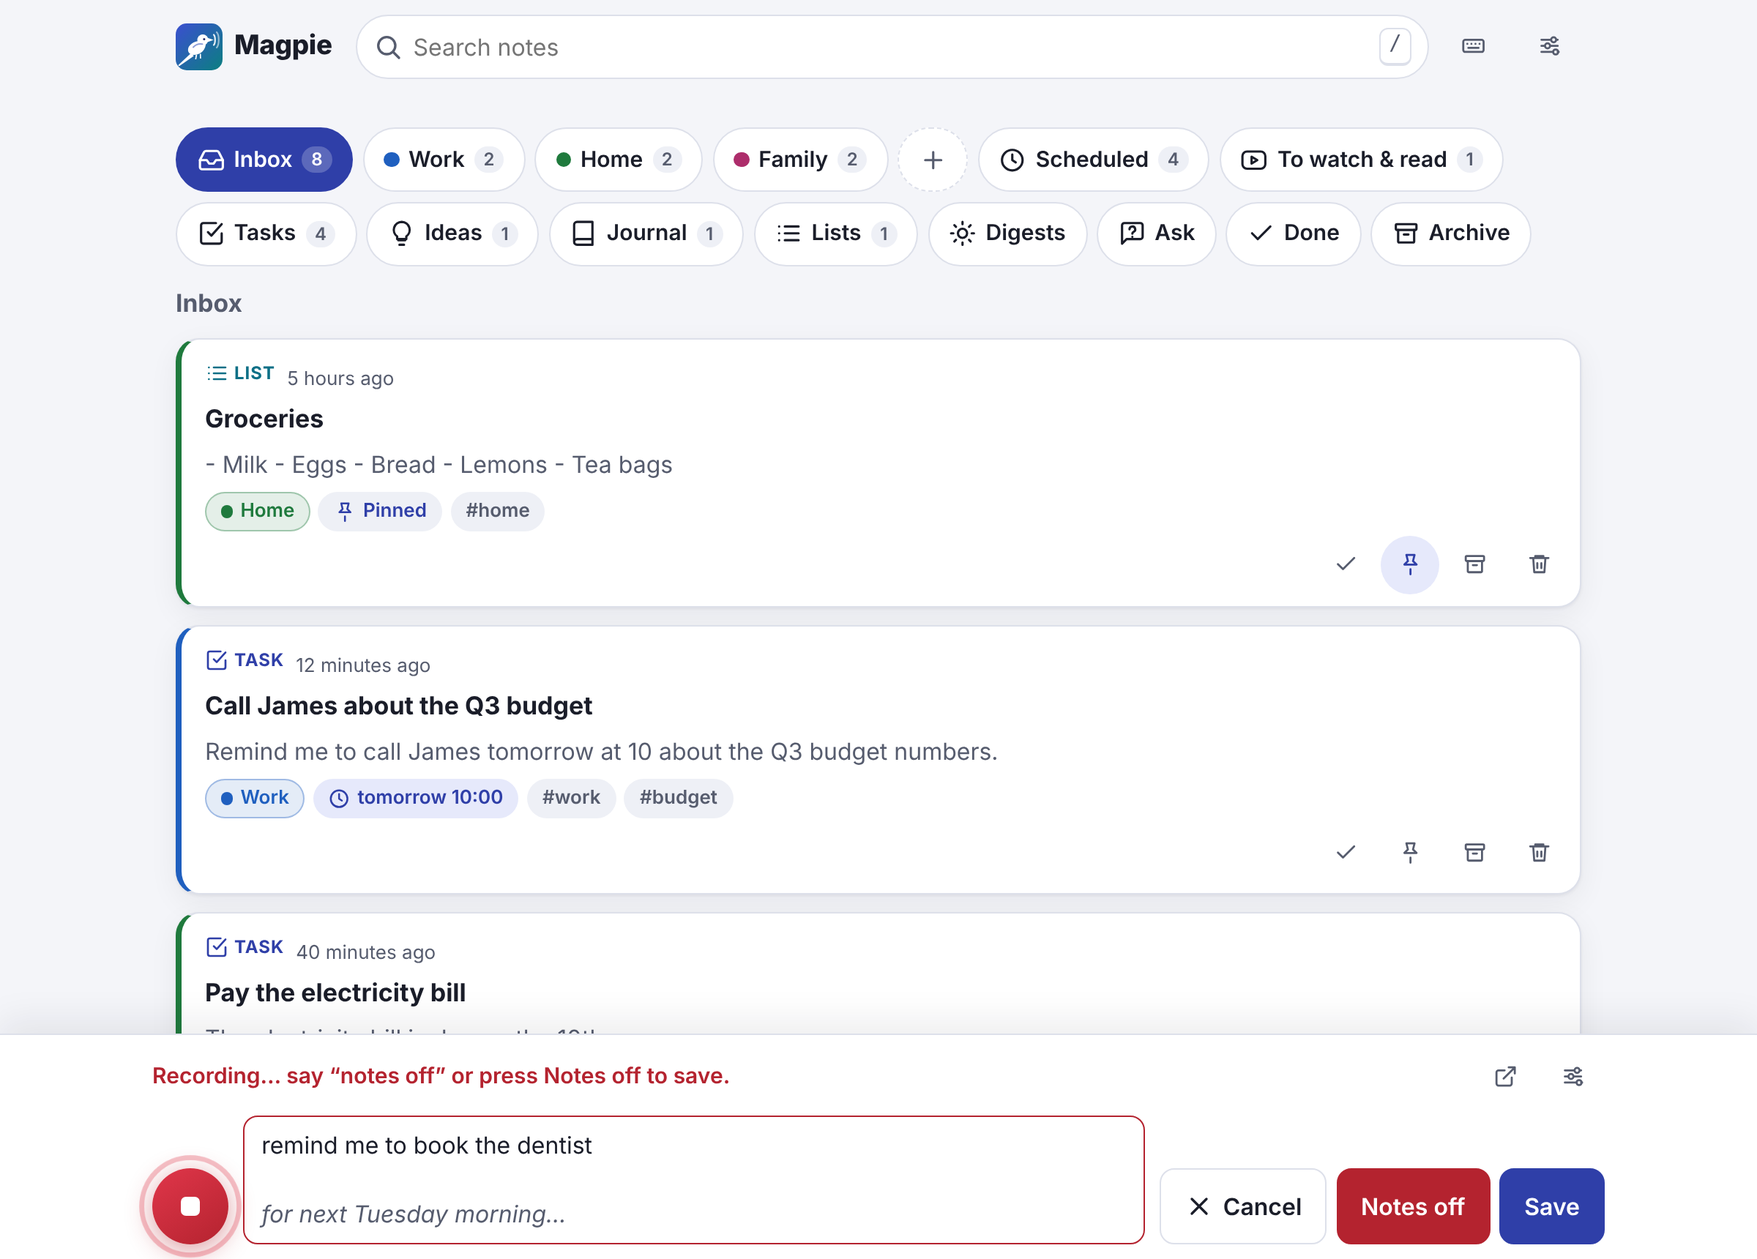
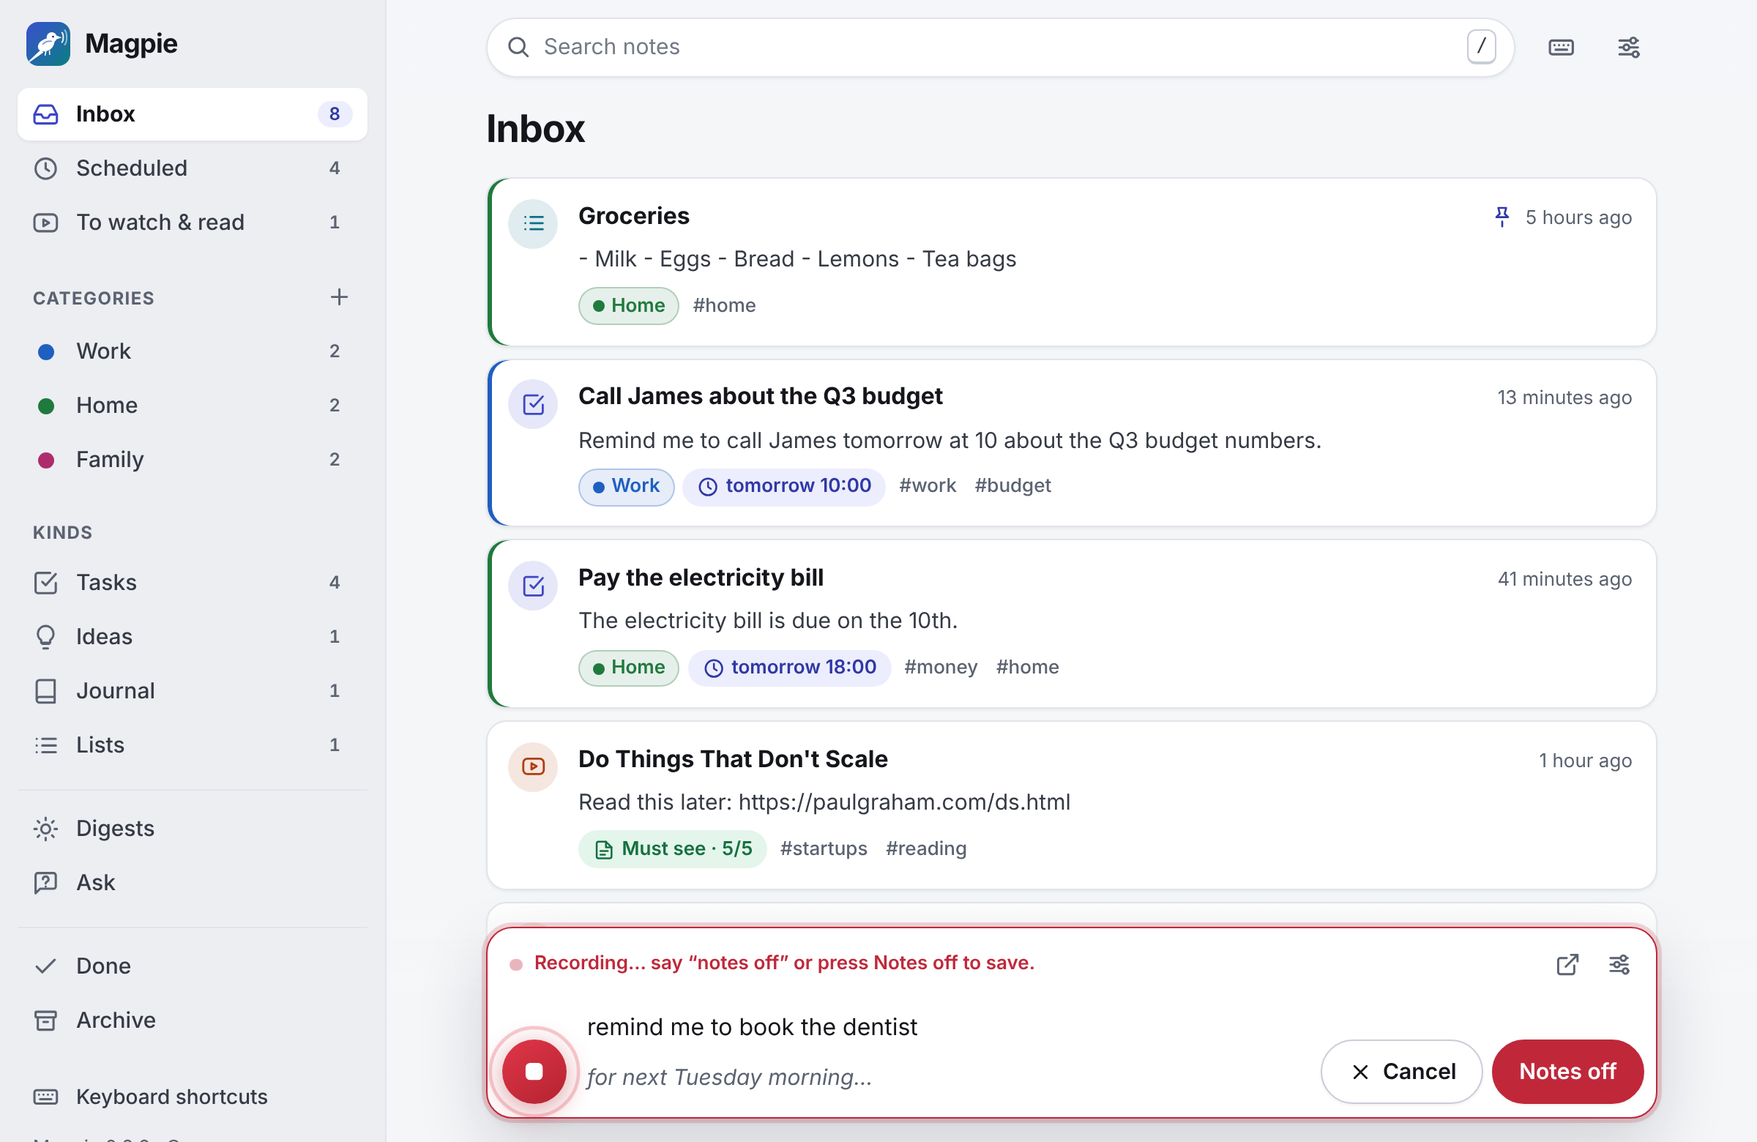
Magpie 0.9.0: a new look for the notes window, the voice bar and pop-ups
- The redesign from the previous commit, finished: on phones the
  composer's Allow microphone button has its own line, the placeholder is
  shorter, and the status dot sits above the mic. While recording, Notes
  off is the one button that saves (Save beside it did the same). High
  contrast keeps the category stripe, and the file picker is styled.
- The self-test also checks that the bar shows the microphone's level.
- New README screenshots; the guide, spec, architecture and configuration
  pages speak of the sidebar rather than tabs, and the guide explains the
  bar's meter, with what to do when it doesn't move.

Claude-Session: https://claude.ai/code/session_01AZmxZzrQAWN22yze1aNy5f

diff --git a/src/magpie/web/static/js/capture.js b/src/magpie/web/static/js/capture.js
@@ -29,10 +29,14 @@ let placeholder = null;
 let undoText = "";
 let undoTimer = null;
 let updateHeight = () => {};
-let noteContext = () => ({}); // the tab a note is written in (set by app.js)
-let startedIn = null; // that tab, for a recording, when it started
+let noteContext = () => ({}); // the view a note is written in (set by app.js)
+let startedIn = null; // that view, for a recording, when it started
 
 const PLACEHOLDER = "Type a note, or press the mic…";
+const SHORT_PLACEHOLDER = "Type a note…"; // a phone or the pop-out: the mic is right beside it
+const phone = window.matchMedia?.("(max-width: 40rem)");
+// The bar's own window decides (it may be the pop-out).
+const narrowBar = () => Boolean(el.root.ownerDocument.defaultView?.matchMedia?.("(max-width: 40rem)").matches);
 const wakePhrase = () => state.prefs?.wake_phrase || "notes on";
 const stopPhrase = () => state.prefs?.stop_phrase || "notes off";
 const pipSupported = "documentPictureInPicture" in window;
@@ -200,9 +204,10 @@ function render() {
   el.mic.title = `${micLabel} (Alt+N)`;
 
   // While recording, the words appear here: no placeholder in their way.
-  el.area.placeholder = rec || transcribing ? "" : PLACEHOLDER;
+  el.area.placeholder = rec || transcribing ? "" : narrowBar() ? SHORT_PLACEHOLDER : PLACEHOLDER;
   const hasText = Boolean(el.area.value.trim());
   el.off.hidden = !rec;
+  el.save.hidden = rec; // Notes off saves, as Save would
   el.cancel.hidden = !(rec || hasText); // always there while recording
   el.save.disabled = transcribing;
 
@@ -250,7 +255,7 @@ async function submit(text, source) {
   setArea("");
   showInterim("");
   spoken = false;
-  // A voice note keeps the tab it was started in; a typed one, the tab it's saved from.
+  // A voice note keeps the view it was started in; a typed one, the view it's saved from.
   const context = source === "web-voice" && startedIn ? startedIn : noteContext();
   startedIn = null;
   setNotice("Saving…", 30000);
@@ -833,6 +838,7 @@ function wireBar() {
 export function setupCapture() {
   if (el) return;
   el = find();
+  phone?.addEventListener?.("change", render);
   setupVoice();
   wireBar();
   wirePopover();

diff --git a/src/magpie/web/static/css/app.css b/src/magpie/web/static/css/app.css
@@ -136,9 +136,10 @@
   --text-2: var(--text);
   --border: currentcolor;
   --border-strong: currentcolor;
-  --shadow-1: none;
-  --shadow-2: none;
-  --shadow-3: none;
+  /* No shadows, but still values: some shadows are combined with a stripe or a ring. */
+  --shadow-1: 0 0 #0000;
+  --shadow-2: 0 0 #0000;
+  --shadow-3: 0 0 #0000;
 }
 :root[data-contrast="high"] .card,
 :root[data-contrast="high"] .btn,
@@ -380,7 +381,20 @@ textarea:focus-visible {
   border-color: var(--focus);
   box-shadow: 0 0 0 3px color-mix(in srgb, var(--focus) 30%, transparent);
 }
-input[type="file"] { font: inherit; }
+input[type="file"] { font: inherit; color: var(--muted); }
+input[type="file"]::file-selector-button {
+  margin-right: 0.75rem;
+  min-height: 2.25rem;
+  padding: 0.35rem 0.85rem;
+  border: 1px solid var(--border-strong);
+  border-radius: var(--radius-xs);
+  background: var(--surface);
+  color: var(--text);
+  font: inherit;
+  font-weight: 600;
+  cursor: pointer;
+}
+input[type="file"]::file-selector-button:hover { background: var(--surface-2); }
 textarea { resize: vertical; line-height: 1.5; }
 label { font-weight: 600; }
 fieldset { border: 0; margin: 0; padding: 0; }
@@ -1551,7 +1565,7 @@ dialog .toasts { position: absolute; }
   .voicebar-top,
   .voicebar-main,
   .voicebar-actions { display: contents; }
-  .voice-dot { grid-area: dot; align-self: center; margin-left: 0.35rem; }
+  .voice-dot { grid-area: dot; align-self: center; justify-self: center; } /* above the mic */
   .voice-status { grid-area: status; align-self: center; }
   #voice-allow,
   #voice-undo { grid-area: extra; justify-self: start; margin: 0.15rem 0 0.4rem 0.35rem; }

diff --git a/src/magpie/web/static/js/actions.js b/src/magpie/web/static/js/actions.js
@@ -24,7 +24,7 @@ export function patchNote(note, changes, message, undoChanges) {
   return guarded(async () => {
     const updated = await api(`/api/notes/${note.id}`, { method: "PATCH", body: changes });
     emit("note-updated", updated);
-    if ("category_id" in changes) emit("categories-changed"); // the tabs' counts
+    if ("category_id" in changes) emit("categories-changed"); // the sidebar's counts
     if (message) {
       toast(message, undoChanges ? { action: "Undo", onAction: () => patchNote(updated, undoChanges) } : {});
     }
@@ -54,7 +54,7 @@ export const noteActions = {
       { status: note.status },
     );
   },
-  // Dropped on a category's tab (or chosen in the note window); Undo puts it back.
+  // Dropped on a category in the sidebar (or chosen in the note window); Undo puts it back.
   moveTo(note, category) {
     const id = category?.id || 0;
     if ((note.category_id || 0) === id) {

diff --git a/src/magpie/web/static/js/app.js b/src/magpie/web/static/js/app.js
@@ -387,7 +387,7 @@ function viewInfo(view) {
 
 const NOTE_TYPE = "application/x-magpie-note";
 
-// A tab you can drop a dragged note on: a category, Done or Archive.
+// A view in the sidebar you can drop a dragged note on: a category, Done or Archive.
 function acceptNotes(target, drop) {
   target.classList.add("drop-target");
   target.addEventListener("dragover", (event) => {
@@ -427,7 +427,7 @@ function refreshCategories() {
   return categoriesRequest;
 }
 
-// Where a new note was written, so it remembers the tab (and stays in its category).
+// Where a new note was written, so it remembers the view (and stays in its category).
 function noteContext() {
   if (state.q) return { captured_in: "Search" };
   if (currentView.startsWith("category/")) {

diff --git a/src/magpie/web/static/js/settings.js b/src/magpie/web/static/js/settings.js
@@ -109,7 +109,7 @@ function aiSection() {
 
 function categoriesSection() {
   return section("categories", "Categories",
-    h("p", { class: "muted" }, "Your own categories, in your colours. The AI files notes into them, notes you write in a category's tab stay there, and you can drag notes onto a tab."),
+    h("p", { class: "muted" }, "Your own categories, in your colours. The AI files notes into them, notes you write while a category is open stay in it, and you can drag notes onto a category in the sidebar."),
     categoriesEditor(),
   );
 }

diff --git a/src/magpie/web/static/js/cards.js b/src/magpie/web/static/js/cards.js
@@ -142,7 +142,7 @@ export function noteCard(note, actions) {
       ),
     ),
   );
-  // Drag a card onto a category tab to move it there (the note dialog has the same choice).
+  // Drag a card onto a category in the sidebar to move it there (the note dialog has the same choice).
   card.addEventListener("dragstart", (event) => {
     event.dataTransfer.setData("application/x-magpie-note", String(note.id));
     event.dataTransfer.effectAllowed = "move";

diff --git a/src/magpie/desktop/selftest.py b/src/magpie/desktop/selftest.py
@@ -37,6 +37,7 @@ PAGES = [
     "/static/desktop/reminders.html",
     "/static/desktop/reminders.js",
     "/static/desktop/desktop.css",
+    "/static/icons/sprite.svg",  # the pop-ups' icons
 ]
 APP_MODULES = [
     "vosk",
@@ -304,13 +305,16 @@ def check_window(server: Any) -> str:
             if not ready.wait(60):
                 outcome["error"] = "the bar page never said it was ready"
                 return
+            # Recording, with the words so far and how loud the microphone is.
             window.run_js(
                 "window.magpieBar.recording({});"
+                "window.magpieBar.level({level: 0.5});"
                 "window.magpieBar.words({base: '', final: 'buy milk', partial: 'tomorrow'});"
                 "fetch('/api/desktop/ui', {method: 'POST', headers: {'Content-Type': "
                 "'application/json', 'X-Magpie': '1'}, body: JSON.stringify({window: 'bar', "
                 "action: 'report', text: document.getElementById('bar').dataset.state + '|' + "
-                "document.getElementById('text').value})});"
+                "document.getElementById('text').value + '|' + "
+                "document.getElementById('bar').style.getPropertyValue('--level')})});"
             )
             if not reported.wait(30):
                 outcome["error"] = "the bar didn't answer the app"
@@ -337,13 +341,13 @@ def check_window(server: Any) -> str:
         server.core.desktop = None
     if "error" in outcome:
         raise RuntimeError(outcome["error"])
-    if outcome.get("shown") != "recording|buy milk":
+    if outcome.get("shown") != "recording|buy milk|0.5":
         raise RuntimeError(f"the bar showed {outcome.get('shown')!r}")
     if outcome.get("dictated") != "Buy milk":
         raise RuntimeError(f"the bar saved {outcome.get('dictated')!r} from a dictation app")
     return (
-        "the bar opened, reached the app, showed the words it was sent, and saved what a "
-        "dictation app typed into it"
+        "the bar opened, reached the app, showed the words and the microphone's level it was "
+        "sent, and saved what a dictation app typed into it"
     )
 
 

diff --git a/src/magpie/__init__.py b/src/magpie/__init__.py
@@ -1,3 +1,3 @@
 """Magpie: voice-first notes, filed by the AI you choose."""
 
-__version__ = "0.8.2"
+__version__ = "0.9.0"

diff --git a/docs/guide.md b/docs/guide.md
@@ -20,8 +20,9 @@ this page has the rest.
   the top of the screen on a Mac. The icon turns grey when Magpie isn't listening, and gets
   a red dot while it takes a note.
 - **Say “notes on”** at the start of a sentence, in any program, and a small bar appears at
-  the bottom of the screen with your words as you speak. It doesn't take the keyboard from
-  what you're doing. Say **“notes off”** to save the note (or stop talking for a few
+  the bottom of the screen with your words as you speak, a red dot with how long you've been
+  talking, and a meter that moves with your voice (so you can see Magpie hears you). It
+  doesn't take the keyboard from what you're doing. Say **“notes off”** to save the note (or stop talking for a few
   seconds, or press **Save**), or **“cancel note”** to throw it away; **Undo** brings it
   back. “Notes on” in the middle of a sentence (“I took notes on the meeting”) doesn't count.
 - **When you finish**, the bar says *Writing it down…* for a moment while Magpie writes the
@@ -35,6 +36,11 @@ this page has the rest.
   updates* and *Quit Magpie*.
 - **Reminders pop up** in the bottom-right corner of the screen with *Done*, *Snooze* and
   *Open*, whether Magpie's window is open or not.
+- **Your notes window** lists its views on the left: *Inbox*, *Scheduled*, *To watch & read*,
+  your categories (drag a note onto one to move it there), the kinds of notes you have,
+  *Digests*, *Ask*, *Done* and *Archive*. In a narrow window the **☰** button shows them.
+  Point at a note (or move to it with the keyboard) for its buttons: done, pin, archive and
+  delete.
 - **Closing the notes window** keeps Magpie running and listening. *Quit Magpie* stops it
   until you open it again (from the Start menu or the Desktop on Windows, from Applications
   on a Mac).
@@ -216,6 +222,7 @@ called *magpie*).
 | No Magpie icon by the clock (Windows) | Click the **^** arrow next to the clock; drag the icon onto the taskbar to keep it there. Not there either? Open Magpie from the Start menu. |
 | No Magpie icon in the menu bar (Mac) | A full menu bar hides icons behind the camera notch: quit a menu bar app or two. Not there either? Open Magpie from Applications. |
 | Magpie doesn't hear “notes on” | Point at Magpie's icon (or open its menu): it says what's wrong. *Hears only silence*: on Windows, Settings → Privacy & security → Microphone → *Let desktop apps access your microphone*; on a Mac, System Settings → Privacy & Security → Microphone → Magpie. Check the microphone isn't muted. Say “notes on” at the start of a sentence, or use *Start a voice note* in its menu. |
+| The meter in the bar doesn't move while you talk | Magpie hears nothing from that microphone. Choose the one you use as the input: on Windows, Settings → System → Sound → *Input*; on a Mac, System Settings → Sound → *Input*. Check it isn't muted, then try again. |
 | A note starts when you didn't say “notes on” | Magpie checks with a second recogniser before it starts a note, so this should be rare. If it still happens, choose a wake phrase that sounds like nothing else you say, such as “hello magpie” (Settings → Voice). |
 | Saved notes have mistakes in them | Check Settings → Voice: *Ready* means Whisper writes notes down. While it's *Downloading*, notes keep the quick words or the faster model's. Try *Most accurate* if *Automatic* chose the faster one, and speak towards the microphone. |
 | The download of the speech model fails | Settings → Voice says why. Magpie tries again every 15 minutes. It comes from Hugging Face (huggingface.co), which some networks block. |

diff --git a/docs/SPEC.md b/docs/SPEC.md
@@ -31,8 +31,9 @@ up and summarised without filing anything by hand.
 1. **Capture.** On Windows and Mac, the Magpie app listens for "notes on" all the time,
    offline and in any program, without the user turning anything on: saying it
    (at the start of what they say) brings up a small floating bar at the bottom
-   of the screen with the words as they are spoken, without taking the keyboard
-   from what the user is doing. "notes off", Save or a few seconds of silence
+   of the screen with the words as they are spoken, how long the note has run and a
+   meter of the microphone's level, without taking the keyboard from what the user
+   is doing. "notes off", Save or a few seconds of silence
    saves the note; "cancel note" or Cancel discards it, with Undo; clicking the
    bar lets the user type into it. Something that only sounds like "notes on"
    must not start a note: a second, fuller recogniser hears the same moment again
@@ -56,9 +57,9 @@ up and summarised without filing anything by hand.
    mistakes, false starts) without changing its meaning. It gives the note a
    title (which the user can edit), a kind (task, idea, link, journal, meeting,
    reference, list or note), one of the user's own colour-coded categories, and
-   tags, and reads any dates and times in it. A note written while a category's
-   tab is open stays in that category, and every note remembers the tab it was
-   written in. When the user moves a note or changes its kind, Magpie keeps the
+   tags, and reads any dates and times in it. A note written while a category is
+   open stays in that category, and every note remembers the view it was written
+   in. When the user moves a note or changes its kind, Magpie keeps the
    correction as a lesson for similar notes.
 3. **Decide.** The AI decides whether and when to ping:
    - **explicit**: the user named a time ("at 5 pm", "tomorrow morning", "in 20
@@ -81,8 +82,9 @@ up and summarised without filing anything by hand.
    points, a verdict on whether it is worth the time, and who it is for. When the
    user only names something by voice ("that Paul Graham essay about doing things
    that don't scale"), Claude finds it with web search first.
-6. **Dashboard.** Browse, search, filter, edit, delete (with Undo) and act on
-   notes; drag them between categories. See upcoming reminders, reviews, and daily
+6. **Dashboard.** Browse (the views and the user's categories in a sidebar, a
+   drawer on narrow screens), search, filter, edit, delete (with Undo) and act on
+   notes; drag them onto categories. See upcoming reminders, reviews, and daily
    and weekly digests, and ask questions across all of your notes.
 7. **Make it yours.** Installing asks nothing: on Windows one download, elsewhere
    one command, and the time zone follows the computer. A welcome screen then sets
@@ -149,8 +151,8 @@ verification and paid templates), calendar sync and image notes.
    from that program.
 7. With no AI set up, notes are still saved and are processed once one is chosen;
    with "no AI", simple rules file them.
-8. A note written while the Work tab is open lands in Work; dragging a note onto
-   Home moves it there (with Undo), and similar notes go to Home afterwards.
+8. A note written while Work is open lands in Work; dragging a note onto Home in the
+   sidebar moves it there (with Undo), and similar notes go to Home afterwards.
 9. A reminder pops up on the computer and arrives as an email whose subject says
    what is due and when.
 10. A new published version reaches an installed app within hours, or at once from

diff --git a/docs/architecture.md b/docs/architecture.md
@@ -124,8 +124,8 @@ flowchart LR
   Prefs changes (the command word) reach the listener at once.
 - **The system** (`system.py`): one copy at a time (a lock file; a second start asks the
   first to show itself), starting with the computer (the `Run` registry key on Windows, a
-  LaunchAgent on a Mac), the window or app in front (kept with the note, like the tab a note
-  was written in).
+  LaunchAgent on a Mac), the window or app in front (kept with the note, like the view a
+  note was written in).
 - **First start** (`migrate.py`): if this computer ran Magpie in Docker, its database is
   copied with SQLite's backup, its settings minus any password become `magpie.env`, and the
   old containers are stopped and kept from restarting.
@@ -167,13 +167,13 @@ sequenceDiagram
 
 1. **Capture.** Every entry point ends in `Pipeline.submit()` or `Store.create_note()` plus
    `Pipeline.process()`. The note is stored immediately with `state = pending`, so nothing
-   is lost if the AI is slow, down or not configured. A note written in a category's tab
-   gets that category at once (`meta.category_by = "you"`), and `meta.captured_in` records
-   the tab.
+   is lost if the AI is slow, down or not configured. A note written while a category is
+   open gets that category at once (`meta.category_by = "you"`), and `meta.captured_in`
+   records the view.
 2. **Triage.** The brain's `triage()` (`ClaudeBrain`, `OpenAICompatibleBrain` or
    `BasicBrain`) sends one request with a JSON schema generated from `schemas.Triage`. The
    current local time, the user's “about me”, morning time, proactivity, instructions,
-   categories, the tab the note was written in and the lessons learned from earlier
+   categories, the view the note was written in and the lessons learned from earlier
    corrections go in the user message; the system prompt never changes, so it is
    prompt-cached. The AI's category is used only when the user hasn't chosen one.
 3. **Reminders.** The AI returns wall-clock times (`2026-10-19T17:00`). `reminders.py`

diff --git a/CHANGELOG.md b/CHANGELOG.md
@@ -6,6 +6,39 @@ All notable changes to Magpie are documented here. The format follows
 
 ## [Unreleased]
 
+## [0.9.0] - 2026-10-24
+
+### Changed
+
+- **A new look for the notes window.** Your views are in a sidebar instead of two rows of
+  tabs: *Inbox*, *Scheduled* and *To watch & read*, then your categories (drag a note onto
+  one to move it), the kinds of notes you have, *Digests* and *Ask*, *Done* and *Archive*.
+  In a narrow window or on a phone, the **☰** button shows them.
+- **Calmer note cards that show more at once**: a coloured icon for the kind, the title and
+  time on one line, two lines of the note, then its category, reminder and tags. The buttons
+  (done, pin, archive, delete) appear when you point at a note or move to it with the
+  keyboard, and are always there on touch screens.
+- New colours, type and spacing throughout, in light, dark and high contrast. The composer
+  floats at the bottom of your notes, the *Scheduled* list is a timeline for each day, and
+  empty views say what will appear there.
+- **Settings** lists its sections on the left and marks the one you're reading (a row along
+  the top on a phone).
+- **The voice bar** shows a red dot, how long you've been talking and a meter that moves
+  with your voice, so you can see Magpie hears you. Your words are larger, and the
+  half-heard ones follow straight on. Windows 11 rounds its corners, and the pop-ups'.
+- **Reminder pop-ups** show a bell beside each reminder and pick out when it's due.
+- While a note is being recorded in the notes window, *Notes off* is the one button that
+  saves it (*Save* beside it did the same).
+- The note window's *Copy* button is at the top, beside *Read aloud*, so the buttons along
+  the bottom fit on one line.
+
+### Fixed
+
+- Settings → AI showed “Cannot read properties of undefined” instead of the AI in use when
+  the AI is chosen on the server.
+- Jumping to a section of Settings could scroll the whole Settings window and hide its
+  title.
+
 ## [0.8.2] - 2026-10-24
 
 ### Fixed
